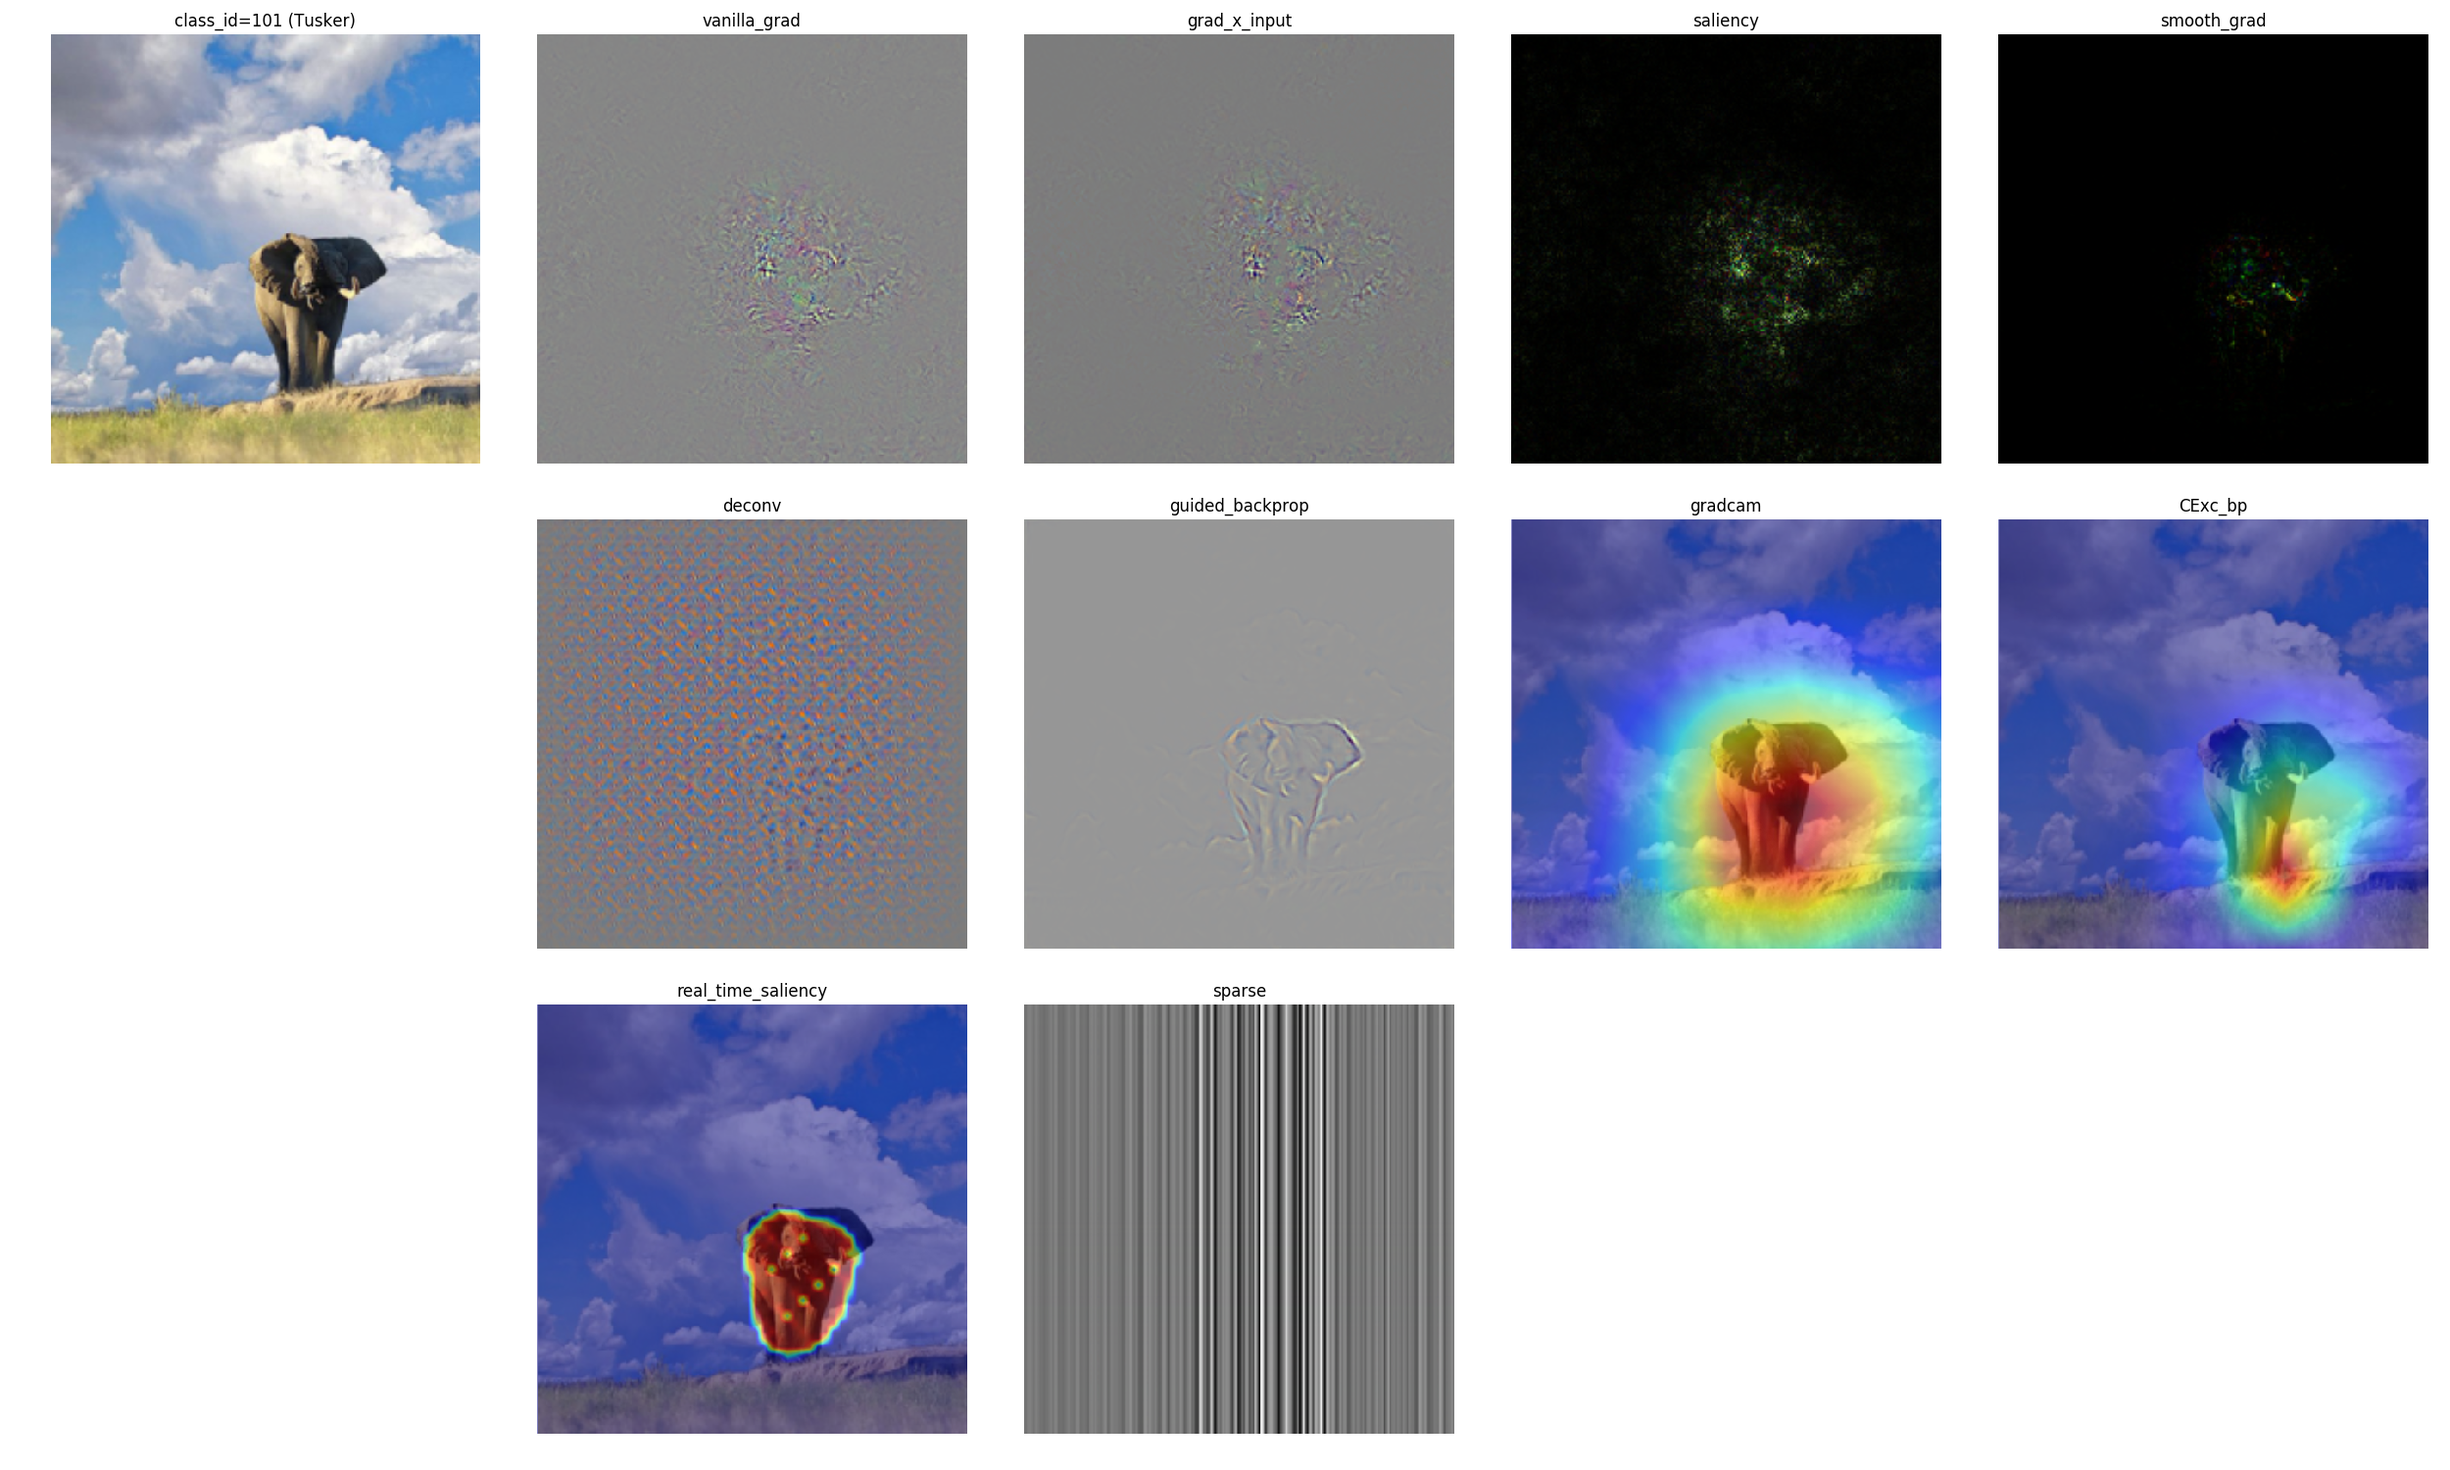
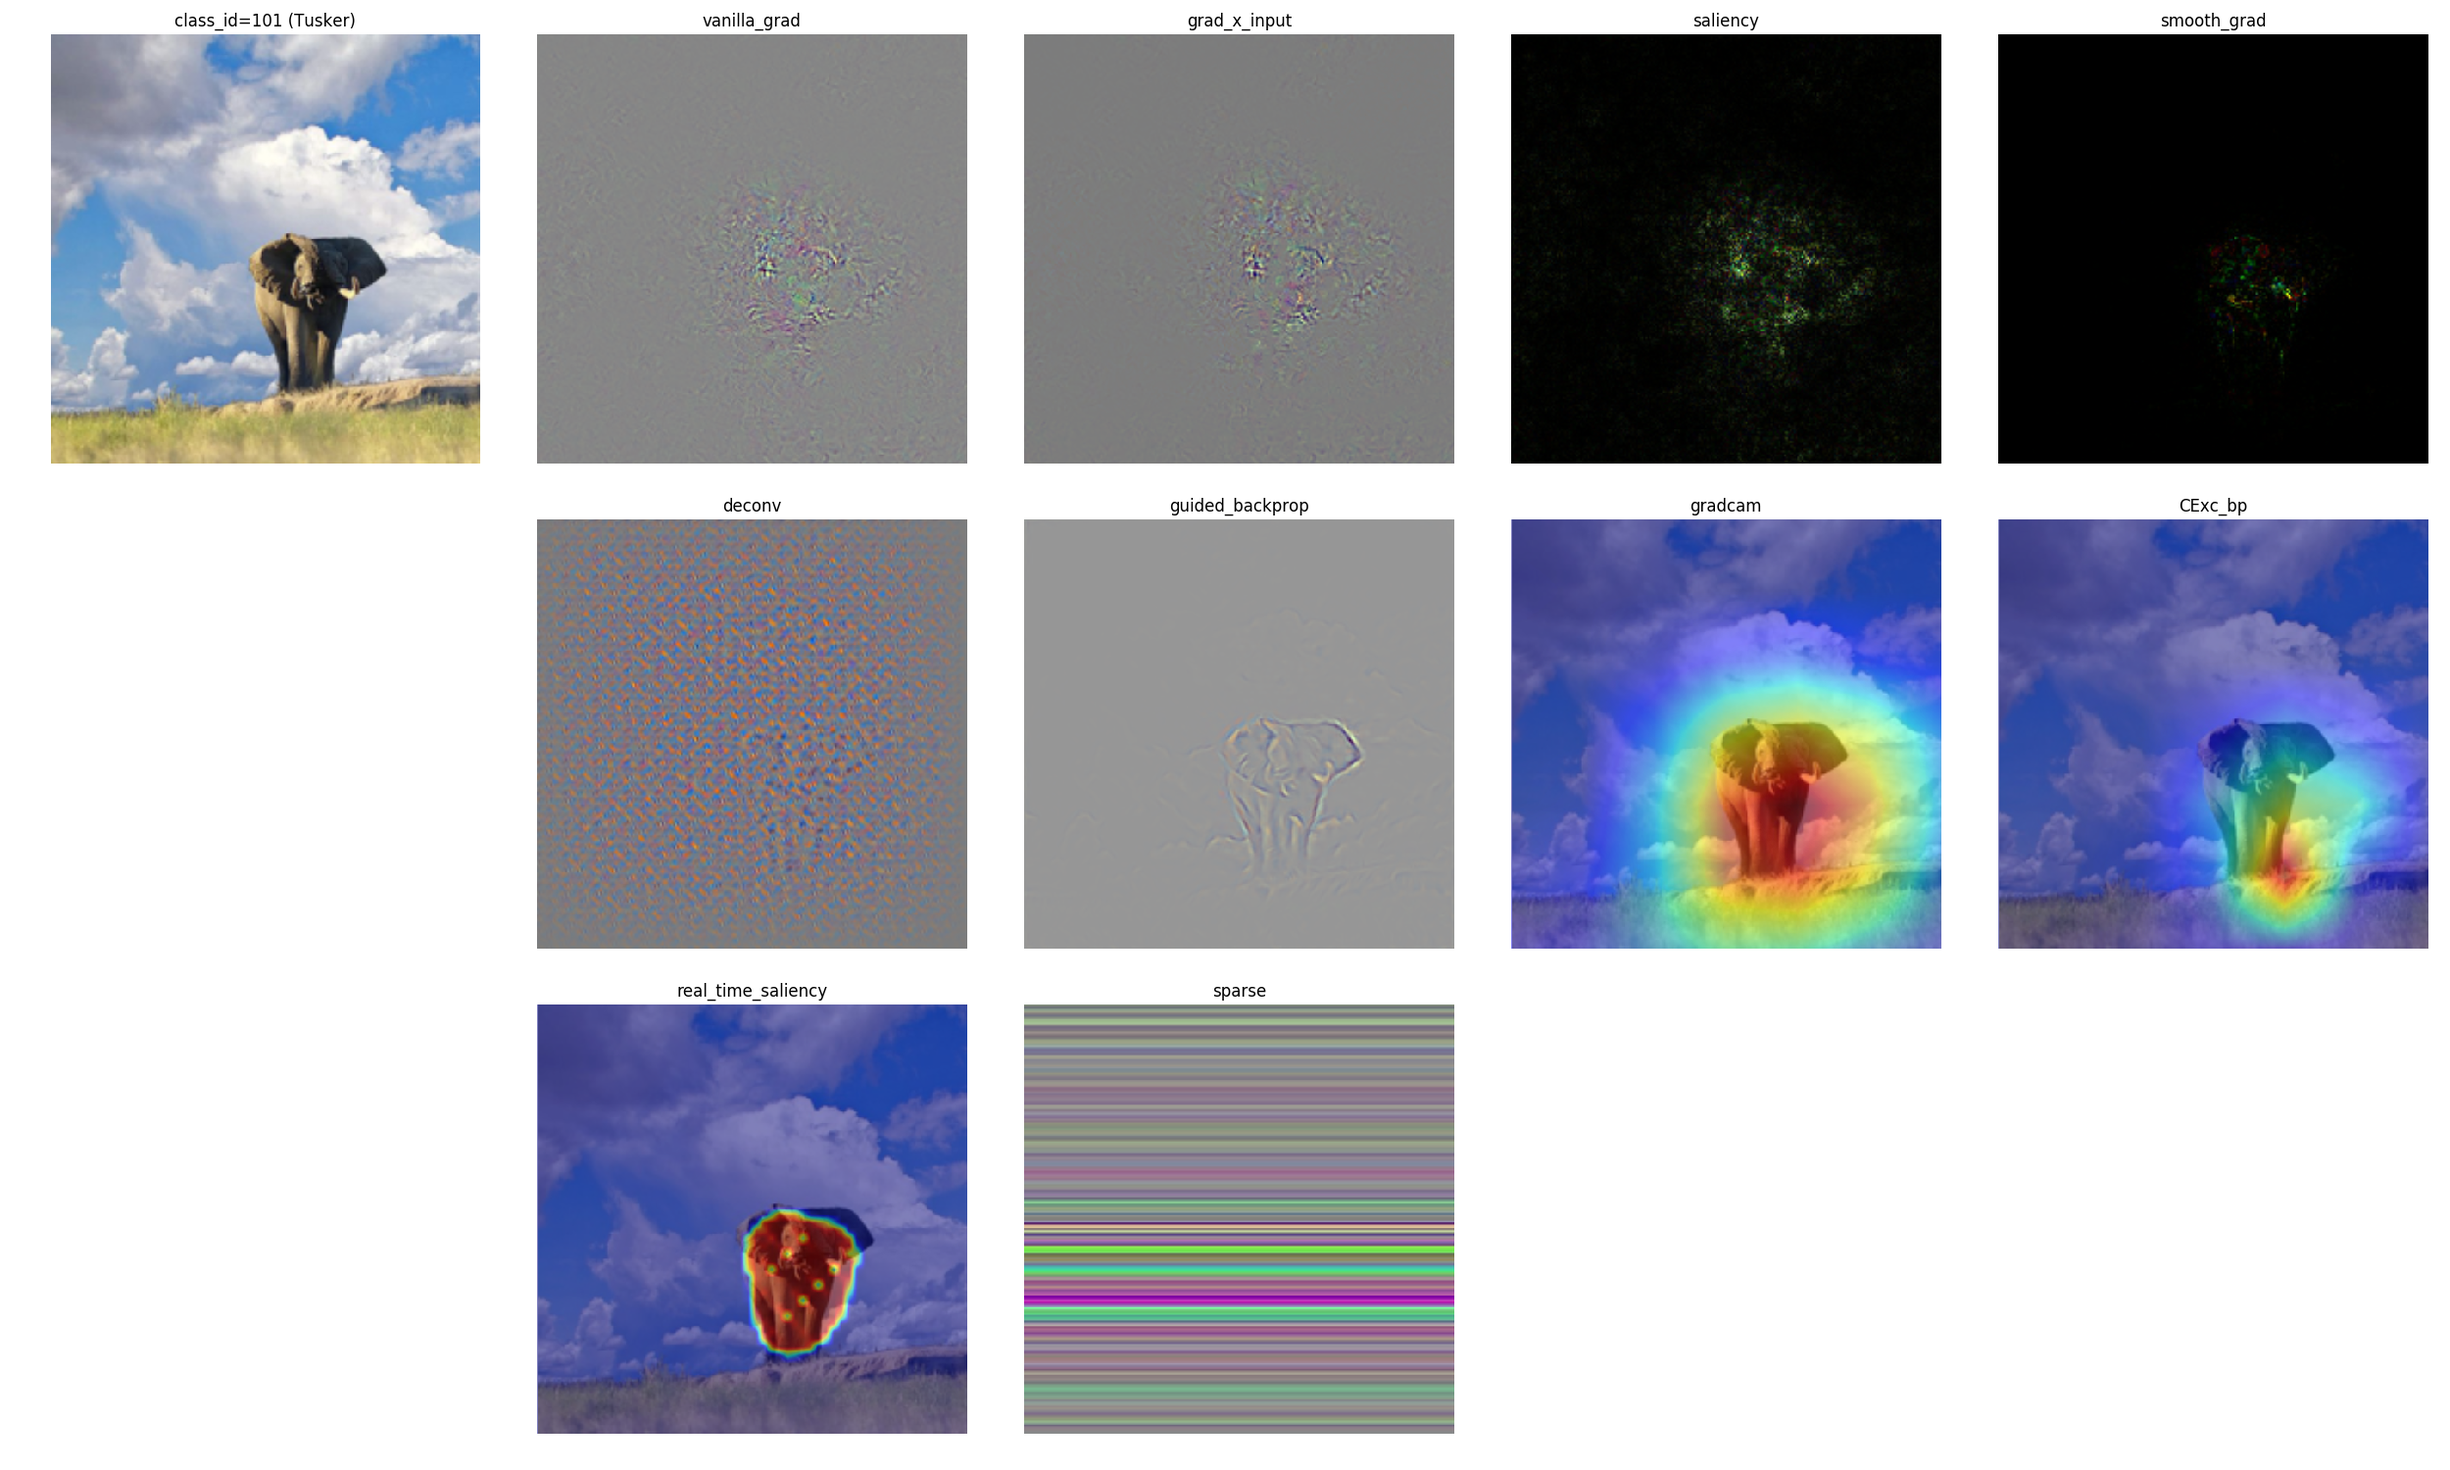
still wrong

Changed region(s): [[0.4056, 0.6747, 0.5928, 0.9813], [0.9048, 0.184, 0.936, 0.2147]]

diff --git a/explainer/sparse.py b/explainer/sparse.py
@@ -4,11 +4,13 @@ import torch.nn.functional as F
 
 
 class SparseExplainer(object):
-    def __init__(self, model):
+    def __init__(self, model, lambda_t2=0, lambda_l1=0, lambda_l2=0,
+                 n_iterations=10):
         self.model = model        
-        self.lambda_1 = 0.1
-        self.lambda_2 = 0.1
-        self.n_iterations = 2
+        self.lambda_t2 = lambda_t2 
+        self.lambda_l1 = lambda_l1 
+        self.lambda_l2 = lambda_l2 
+        self.n_iterations = n_iterations
     
     def explain(self, inp, ind=None):
         delta = torch.zeros_like(inp.data).cuda()
@@ -26,7 +28,8 @@ class SparseExplainer(object):
             taylor_2 = 0.5 * (delta.t() @ hessian_delta_vp).sum()
             l1_term = F.l1_loss(delta, torch.zeros_like(delta))
             l2_term = F.mse_loss(delta, torch.zeros_like(delta))
-            loss = - taylor_1 - taylor_2 + self.lambda_1 * l1_term + self.lambda_2 * l2_term
+            loss = - taylor_1 - self.lambda_t2 * taylor_2
+            loss += self.lambda_l1 * l1_term + self.lambda_l2 * l2_term
             optimizer.zero_grad()
             loss.backward()
             optimizer.step()
